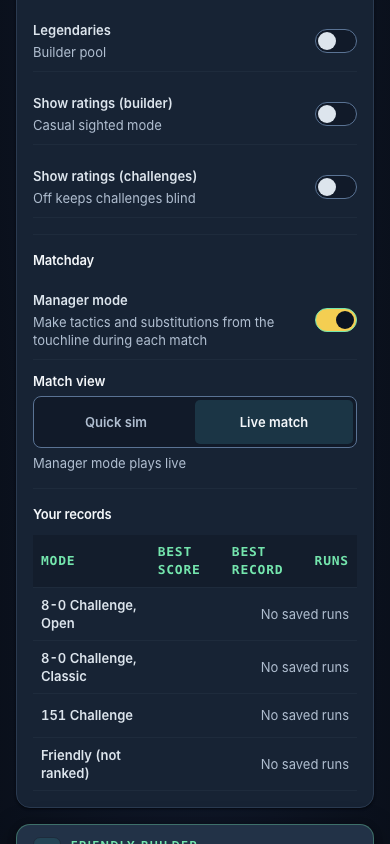
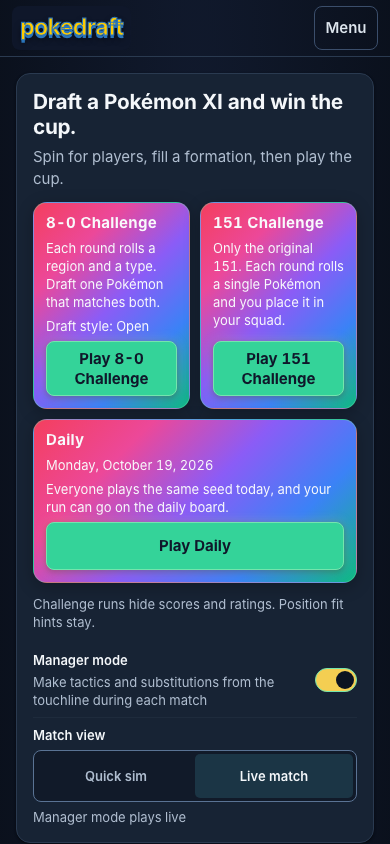
docs(home): home hierarchy decision log, STATE and proof
Claude-Session: https://claude.ai/code/session_01DTp1YoYMSvPZ3BKnAowv2J

diff --git a/docs/decisions/home-hierarchy.md b/docs/decisions/home-hierarchy.md
@@ -1,0 +1,195 @@
+# Home hierarchy (Wave 4, row 4b)
+
+Branch `feat/home-hierarchy` off `origin/main` at `fb03b7a`, with `origin/main` merged at `63462b3`
+(PR #116) in merge commit `b9e8225`. Yellow. No file under `src/engine`, `src/data` or
+`src/scouting` changed, so the goldens are untouched.
+
+## Scope
+
+The hand-off's 4b decisions, applied as written except where "Brief vs code" says otherwise.
+
+- The home page opens on an h1, "Draft a Pokémon XI and win the cup.", with the sub "Spin for
+  players, fill a formation, then play the cup."
+- Under it sit three cards: "8-0 Challenge", "151 Challenge" and "Daily". Each has an h2, one rule
+  line and its Play control. The 8-0 card also says "Draft style: Open" or "Draft style: Classic".
+  The Daily card shows the date `/daily` plays and links to `/daily` ("Play Daily").
+- The ratings hint and the Matchday selector stay with the cards, in the same region.
+- Settings and records start collapsed below 1024px and open at 1024px and up. One toggle controls
+  them. "Challenge Hub" is gone. Setup, Rules and Your records are h3s under the settings h2.
+- The builder is an h2 "Friendly builder" with the sub "Build your XI, then play a Friendly cup."
+  Its header shows "4% chemistry" beside the fill count.
+- The card grid is two columns from 380px to 1023px (Daily spans both) and one column below 380px
+  and in the 320px desktop column.
+
+Files:
+
+- `src/components/home/SidePanel.tsx` returns two siblings. The first is the hero section,
+  labelled by the h1, with the cards, the hint and `MatchdaySettings`. The second is the
+  `Control desk` aside, with the toggle and the `#settings` region. `open` is
+  `boolean | null`; `null` means unset, and the region then has no `data-open`. The
+  `filled` and `chemistry` props are gone. `DailyCard` reads the date after mount.
+- `src/components/home/SidePanel.module.css`: hero, card grid and card styles. The hub rules, the
+  grid-row ordering, `.ctas`, `.challengeGroup` and `.bannerTitle` are deleted. Below 1024px the
+  region hides unless `data-open="true"`.
+- `src/components/home/HomeScreen.tsx` and its CSS: no chemistry prop. At 1024px and up the hero
+  and the aside fill column 1 and the builder spans both rows of column 2.
+- `src/components/builder/Builder.tsx` and its CSS: the h2 title and sub, and the chemistry line,
+  computed from the `rateTeam` or `ratePartialLineup` result the builder already holds.
+- `src/components/ui/primitives.tsx`: `ModuleCard`'s `eyebrow` is optional. The builder had used
+  "Friendly builder" as its eyebrow, which is now its title.
+- `src/ui/labels.ts`: `DAILY_RULE`, the start card's Daily sentence, now shared by
+  `PlayScreen.tsx` and the Daily card.
+- Tests: new `src/components/home/__tests__/home-hierarchy.test.tsx` and
+  `e2e/home-hierarchy.spec.ts`. `PlayCard.test.tsx` and `SidePanel.test.tsx` read the hero region
+  instead of the "Play" region or the aside, and the toggle tests start from unset. The "Trainer
+  Dugout" test is deleted; the new guard asserts the eyebrow is gone.
+- e2e: `openHomeSettings()` in `e2e/helpers.ts` taps the toggle until Formation shows. It is used
+  by `one-tap-play`, `silph-stadium` and the "home settings open" scene in `e2e/mobile/scenes.ts`.
+  `one-tap-play`, `quick-not-broadcast`, `data-split` and `mobile-acceptance` read the new region
+  and headings.
+
+## RED commit and output (verbatim excerpts)
+
+RED `a6f9b9a`. Unit: 8 of 8 failed in 1 file. GREEN `f3b9b40`.
+
+```
+     × lists the game pitch h1 first, then the cards, the settings and the friendly builder 63ms
+     × gives the h1 its one-line sub and drops the Trainer Dugout eyebrow 36ms
+     × puts one rule line and the Play button on each challenge card 97ms
+     × shows the New York date /daily plays at 03:30 UTC on 20 October, and links to /daily 45ms
+     × leaves the date out of the server HTML, so hydration cannot disagree 8ms
+     × has exactly one button pointing at the settings region, and no Challenge Hub 5ms
+     × renders the toggle collapsed and the region without data-open in the server HTML 3ms
+     × shows 4% chemistry for Bulbasaur and Ivysaur side by side in the builder header 10033ms
+AssertionError: expected [ 'H2 Play', …(5) ] to deeply equal [ …(9) ]
+TestingLibraryElementError: Unable to find an accessible element with the role "heading" and name "8-0 Challenge"
+TestingLibraryElementError: Unable to find an accessible element with the role "heading" and name "Daily"
+AssertionError: expected '<aside class="panel" aria-label="Cont…' to contain 'Play Daily'
+AssertionError: expected [ 'Challenge Hub', …(1) ] to deeply equal [ 'Settings and records' ]
+AssertionError: expected '<aside class="panel" aria-label="Cont…' to contain 'aria-expanded="false"'
+AssertionError: expected '2/16Fill all 16 to see your Team Score' to contain '4% chemistry'
+ Test Files  1 failed (1)
+      Tests  8 failed (8)
+```
+
+The same commit's `e2e/home-hierarchy.spec.ts` against a build of `a6f9b9a` (`CI=1`, chromium,
+no retries): 6 failed, 0 passed.
+
+```
+  ✘  2 [chromium] › e2e/home-hierarchy.spec.ts:50:5 › settings collapsed at 390, open at 1280 (5.4s)
+  ✘  1 [chromium] › e2e/home-hierarchy.spec.ts:75:5 › Daily card date equals /daily's date (5.4s)
+  ✘  3 [chromium] › e2e/home-hierarchy.spec.ts:68:5 › one control for the settings region (5.4s)
+  ✘  4 [chromium] › e2e/home-hierarchy.spec.ts:28:5 › home heading order is h1 then h2s in the served page (5.4s)
+  ✘  5 [chromium] › e2e/home-hierarchy.spec.ts:93:5 › CTAs one column at 360, two at 390 (262ms)
+  ✘  6 [chromium] › e2e/home-hierarchy.spec.ts:107:5 › home fits 390, 360, 320 and 1280 with no side scroll (5.2s)
+    Expected: "Draft a Pokémon XI and win the cup."
+    Received: "Build your XI"
+    Expected: "Monday, October 19, 2026"
+    Expected length: 3
+    Received length: 0
+  6 failed
+```
+
+The 4% literal was read once from `ratePartialLineup` for Bulbasaur in `s0` and Ivysaur in `s1` of
+a gen 1 4-3-3 (synergy 0.0379). The old hub showed the same number as "4% Chem".
+
+One spec bug was fixed after RED: the toggle locator `/Settings and records/` missed "Hide
+settings and records" (lower-case s). It is now `/settings and records/i`.
+
+## Found during GREEN: a store read during hydration dropped an early formation pick
+
+The first GREEN build failed `one-tap-play`'s "a formation picked as the home page loads on a
+slow device reaches /play" at 1280 (2 of 2, with retry):
+`Expected pattern: /[?&]f=4-4-2&/ Received string: ".../play?mode=cup8&f=4-3-3&..."`.
+
+- `origin/main` (`fb03b7a`, built in a scratch worktree, 8x CPU throttle) passed the same steps
+  3 of 3 at 1280 and 3 of 3 at 390. So this row caused it.
+- On this row's build, `inputValue()` read `4-3-3` straight after `selectOption("4-4-2")`.
+- With `useToday()` swapped for a constant `null`, the race passed 2 of 2.
+- Cause: `useToday` is `useSyncExternalStore` with a `null` server snapshot and a date client
+  snapshot. The snapshot change during hydration re-rendered home before hydration finished, and
+  the re-render reset the select that the player had changed before hydration.
+- Fix: `DailyCard` sets the date in a mount effect with `dailyDate(new Date())`, the function
+  `useToday` and `/daily` use. `useToday` is unchanged. The test now runs at 1280, because below
+  1024px the settings start collapsed and opening them waits for hydration.
+
+## Product decisions applied
+
+- Hand-off 4b, h1, cards, builder h2, one toggle, collapse below 1024px, CTA grid below 380px,
+  heading order, "Trainer Dugout" removed.
+- Hub line: the 8-0 card shows the draft style. The builder's fill and chemistry sit in its header.
+  The 151 card shows no style, because `playTarget` drops style for the 151.
+- Decision 3 (blind challenges): no new number appears on a challenge surface. The chemistry
+  percentage is builder-only and already showed in the hub regardless of ratings.
+- Decision 11 (4a): the Matchday selector stays in the same region as the Play buttons.
+
+## Implementation decisions
+
+- One state for the settings, three values. `null` lets CSS decide by width, so the server HTML
+  and the first client render agree and nothing flashes. The toggle reads `aria-expanded="false"`
+  while unset. It shows only below 1024px, where unset means collapsed.
+- The hero sits before the aside in the DOM, so the h1 comes first, and the h1 is not inside the
+  `complementary` landmark. At 1024px and up the grid keeps the 320px left column for the hero and
+  the settings, and the builder spans column 2, so the pitch stays above the fold.
+- `ModuleCard` gets an optional eyebrow rather than a second card component for the builder.
+- The Daily card reserves its date line with a no-break space, so the date appearing after mount
+  does not move the button.
+- Chemistry shows only once a player is placed, so an empty builder does not read "0% chemistry".
+
+## Brief vs code
+
+- The h1 sub. The hand-off's line ends "then play a knockout cup". How to play says the cup opens
+  with 3 group games. Re-decided on the hand-off's own principle (state the loop in game terms,
+  invent nothing): "then play the cup."
+- Daily rule line. How to play has no Daily section yet (4g adds one). The card uses the `/daily`
+  start card's own sentence, now the shared `DAILY_RULE`, instead of new copy.
+- The 8-0 rule line trims How to play's first 8-0 sentences: "Each round rolls a region and a type.
+  Draft one Pokémon that matches both." The 151 line is How to play's text word for word.
+- The Daily date basis is New York (`DAILY_TIME_ZONE`), not the device's local date. It still
+  renders client-side only, as the hand-off asks for a local basis, because a prerendered page
+  must not bake in a date.
+- `theme-type.spec.ts:42` clicks "Challenge Hub" on the draft board (`DraftBoard.tsx:502`), not on
+  home. It is unaffected and unchanged. The draft board's own hub stays for 4g.
+- `draft-safety.spec.ts`'s sticky test reads the aside's next sibling. That is still the builder,
+  and the test passes.
+- Code map lines from `34af10e` had drifted after 4a. `SidePanel.tsx` at `fb03b7a` had
+  `useState(true)` at :96, the hub at :139-153 and the second toggle at :193-201.
+
+## Measurements
+
+Not taken beyond the proof screenshots and the e2e bounds: no side scroll at 390, 360, 320 and 1280,
+and every Play control at least 44px tall at those widths.
+
+## Gates
+
+At `b9e8225`, the merge of `origin/main` at `63462b3` (PR #116). The merge had no conflicts.
+
+- `pnpm lint`, `pnpm typecheck` and `pnpm build` exited 0.
+- `pnpm test`: 1,726 passed in 202 files.
+- All eight `check:*` scripts exited 0 (`mirrors`, `image-seam`, `image-packs`, `client-bundle`,
+  `theme-contrast`, `theme-colors`, `dashes`, `theme-cvd`).
+- Prettier passed on the 26 code files changed since `fb03b7a`, which include #116's.
+- Playwright full suite (`CI=1`, headless, fresh build at `b9e8225`): 935 passed, 63 skipped, 0
+  failed, 0 retries. `home-hierarchy` passed 6 of 6.
+
+The first full run, at `f3b9b40`'s code before the merge and before the scene and Silph Stadium
+updates, had 912 passed and 12 failed. The 12 failures were "home settings open" in
+`mobile-acceptance` and `mobile-targets` on the phone projects, plus `silph-stadium` at 375 and 390.
+All of them picked a formation from settings that now start collapsed. After `openHomeSettings()`,
+those three specs passed 369 of 369 on the same build.
+
+Proof PNGs rewritten by the suite were reverted, except this row's four and the four home shots
+that show the new layout: `one-tap-play/{320,360,390}-play-card.png` and
+`quick-not-broadcast/390-home-manager-plays-live.png`.
+
+## NOT RUN
+
+- Review (the coordinator runs GLM) and hosted CI.
+- A physical phone check and a real screen reader pass (owner actions).
+- Home first-load JS and CLS before and after.
+
+## Carryovers
+
+- 4h2 moves the two-column breakpoint to 960. The collapse rule, the card grid rule and the home
+  grid all read 1024 today and move with it.
+- 4g: How to play gains a Daily section. The Daily card's rule line can then come from it.

diff --git a/STATE.md b/STATE.md
@@ -3,6 +3,29 @@
 Measured ground truth. Each PR's section cites its reviewed head and the gates run there; the merge
 and its squash SHA are recorded in the next PR's STATE update.
 
+## Home hierarchy
+
+Branch `feat/home-hierarchy` off `origin/main` at `fb03b7a`, with `origin/main` merged at `63462b3` (PR #116) in `b9e8225`. Wave 4 row 4b, home page (Yellow). No file under `src/engine`, `src/data` or `src/scouting` changed.
+
+- Home opens on the heading "Draft a Pokémon XI and win the cup." with "Spin for players, fill a formation, then play the cup." under it.
+- Three cards follow: 8-0 Challenge, 151 Challenge and Daily. Each has one rule line and its Play button. The 8-0 card shows the draft style. The Daily card shows the date the daily plays (New York date, as on `/daily`) and Play Daily opens `/daily`.
+- On phones and tablets (below 1024px) Settings and records start closed behind one button. On a desktop they show beside the builder. The Edit link from a start card still opens them. The Challenge Hub button is gone.
+- The builder is now "Friendly builder" with "Build your XI, then play a Friendly cup." under it, and its header shows chemistry (for example "4% chemistry") beside the fill count.
+- The cards sit two across from 380px and stack in one column on narrower phones.
+
+RED commit: `a6f9b9a` (8 of 8 unit tests failed in 1 file; `e2e/home-hierarchy.spec.ts` failed 6 of 6 against a build of that commit). GREEN `f3b9b40`.
+
+Gates at `b9e8225` (the merge of `63462b3`; the docs commit that follows changes only docs and proof PNGs):
+
+- Lint, typecheck and build exited 0. All eight `check:*` scripts exited 0. Prettier passed on the 26 code files changed since `fb03b7a` (this row's and #116's).
+- Unit tests: 1,726 passed in 202 files.
+- Playwright (`CI=1`, headless, fresh build at `b9e8225`), full suite: 935 passed, 63 skipped by their own project gates, 0 failed, 0 retries. `home-hierarchy` passed 6 of 6.
+- NOT RUN: review, hosted CI, a physical phone check and a real screen reader pass (owner actions), home first-load JS and CLS.
+
+Decision log: `docs/decisions/home-hierarchy.md`. Browser proof: `docs/reports/home-hierarchy/` (home at 390, 360, 320 and 1280).
+
+Merge status, the squash SHA and the reviewer receipt go into the next STATE update.
+
 ## Live Team Score in the draft
 
 Branch `feat/live-team-score` off `origin/main` at `d48aa0f`, with `origin/main` merged at `fb03b7a` (PR #115) in fix round 1. Wave 4 row 4c (Yellow). No file under `src/engine`, `src/data` or `src/scouting` changed.
